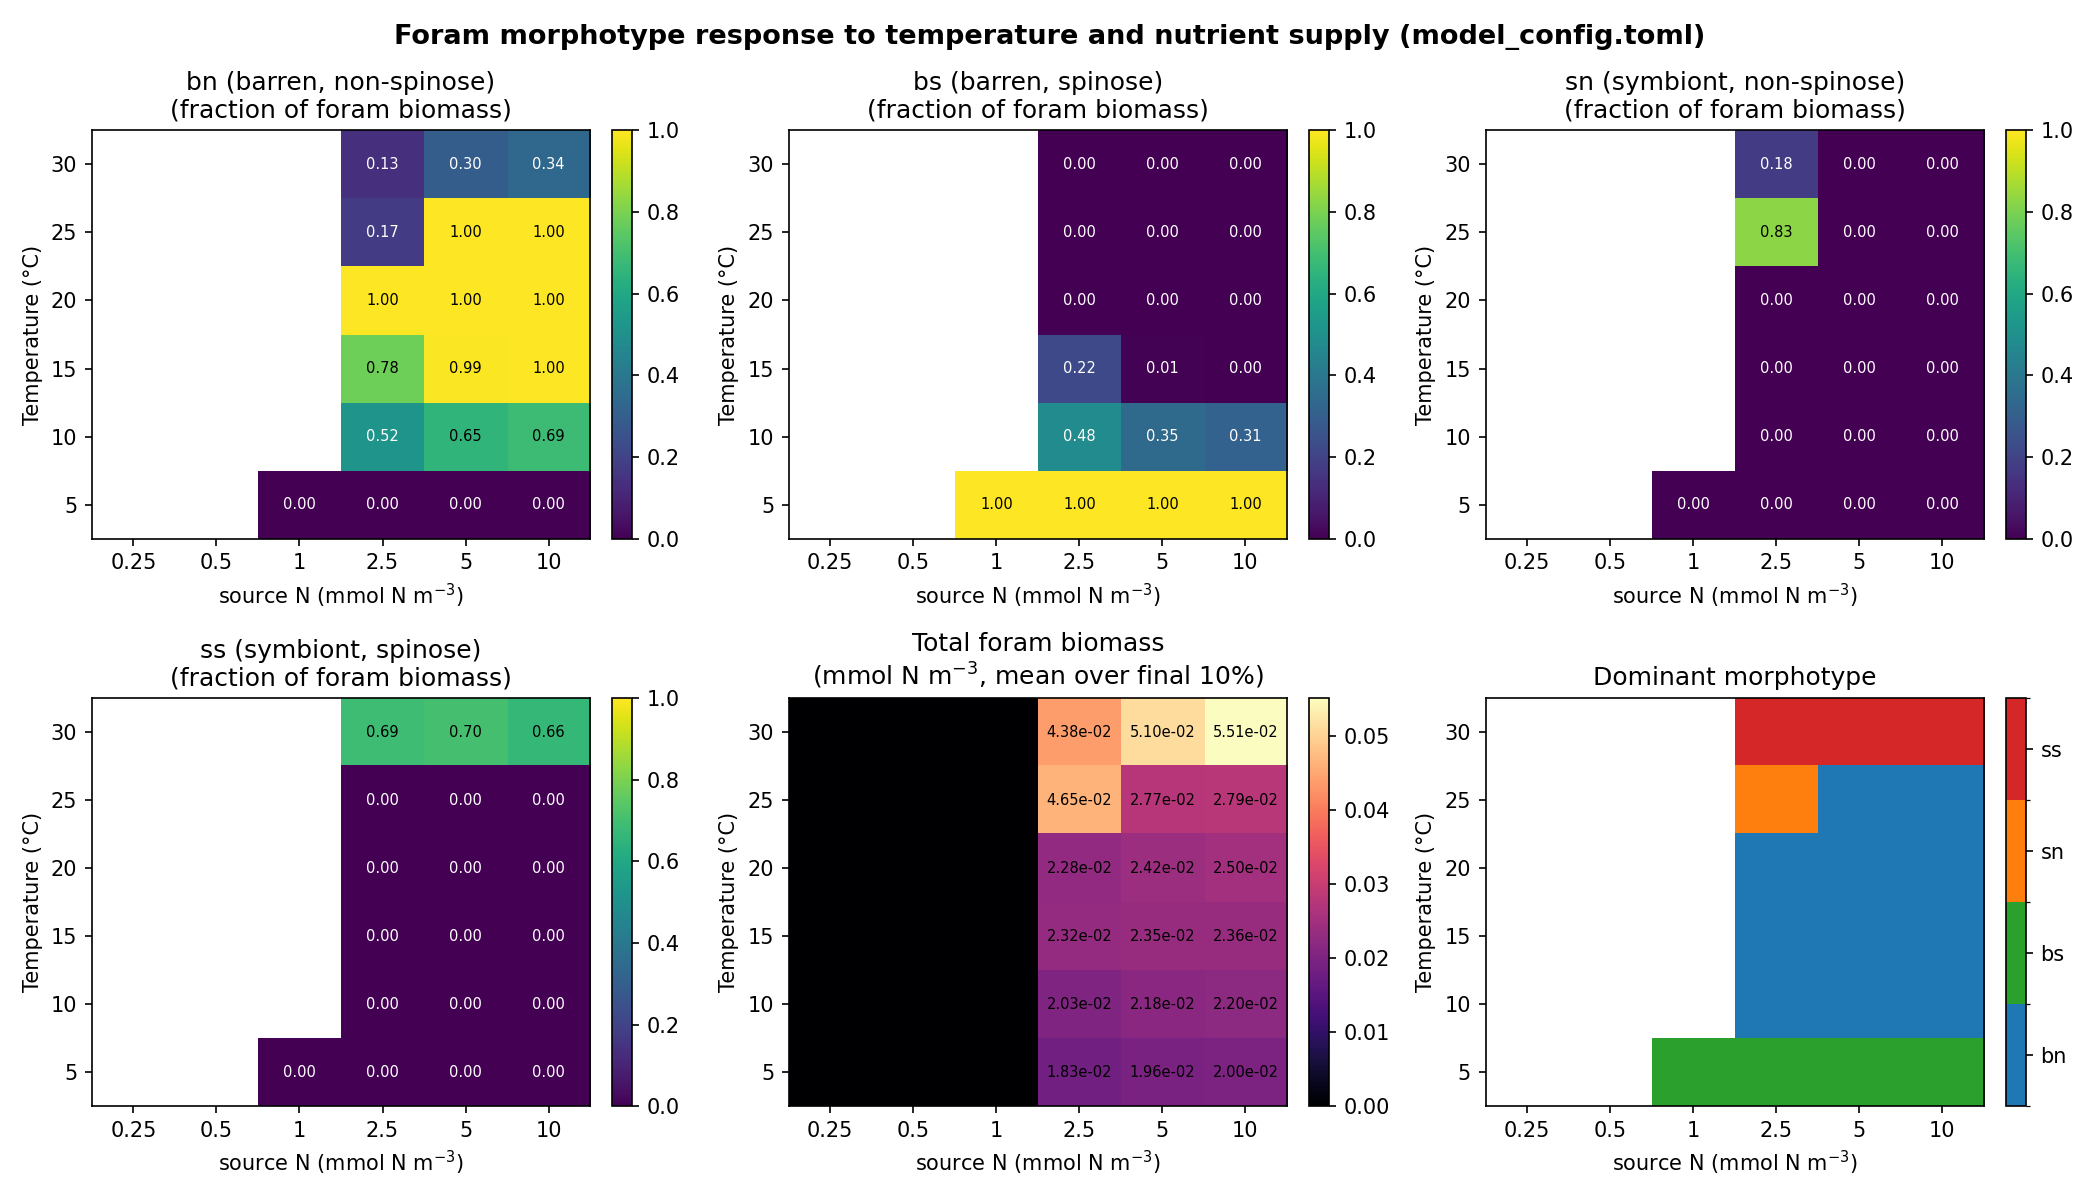
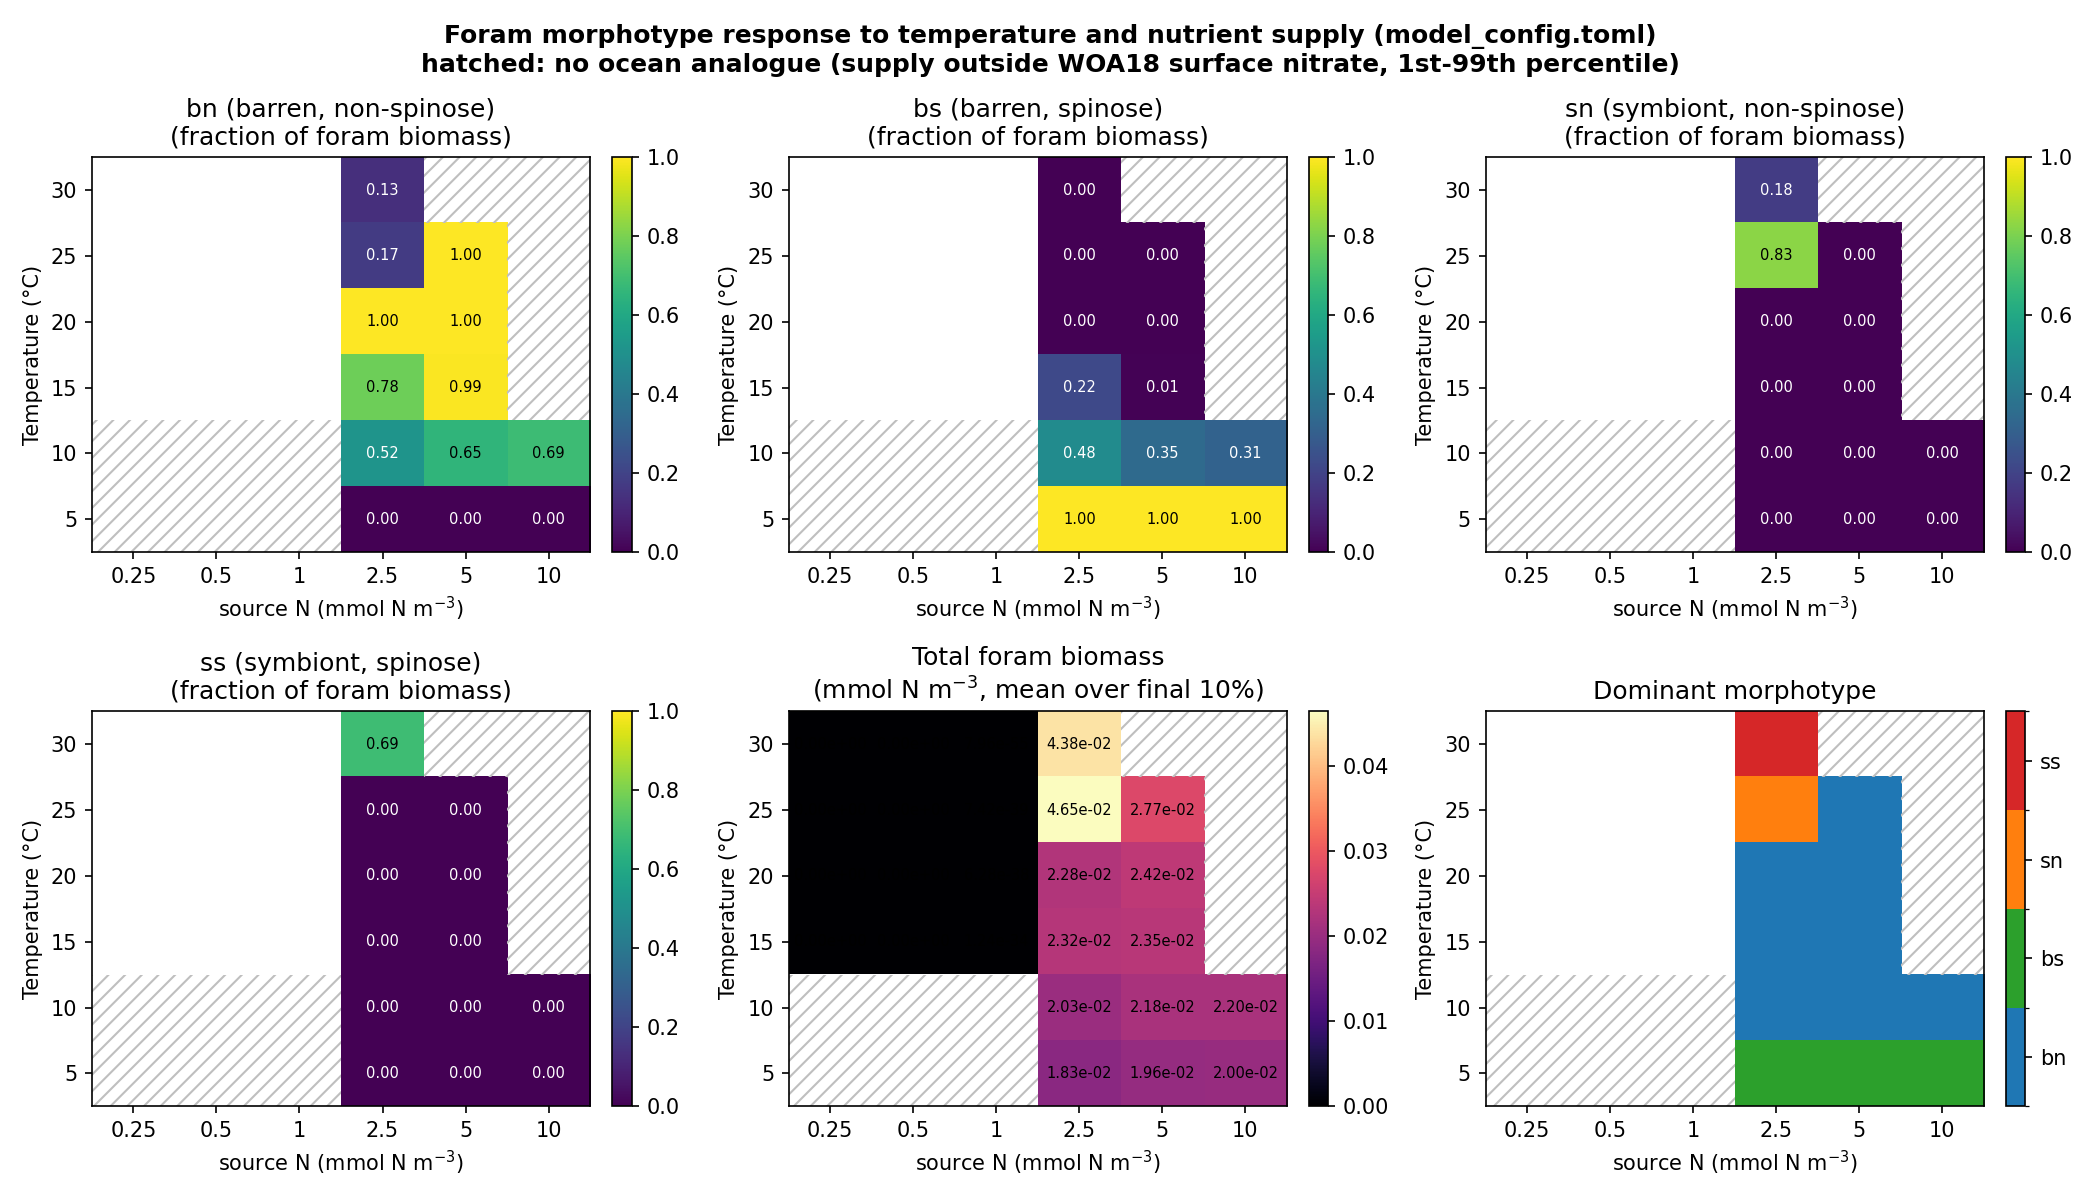
skip T x N sweep cells that have no ocean analogue
A cell runs only if its supply nitrate lies within the 1st-99th
percentile of WOA18 annual surface nitrate within 2.5 C of its
temperature (range hard-coded in the script). This drops cold
nutrient-poor cells (5-10 C at supply <= 1) and warm nutrient-rich ones
(15-25 C at 10, 30 C at >= 5). Skipped cells are hatched and have no
dominant type. Both niche maps regenerated.

diff --git a/run_foram_TN_sweep.py b/run_foram_TN_sweep.py
@@ -21,6 +21,18 @@ MORPHO_COLORS = {'bn': '#1f77b4', 'bs': '#2ca02c', 'sn': '#ff7f0e', 'ss': '#d627
 # total foram biomass below 1% of init_B counts as extinct: fractions there are solver noise
 EXTINCT = 1e-6
 
+# Observed surface nitrate (umol/kg) by temperature: WOA18 annual 1-degree means, 1st-99th
+# percentile of cells within +-2.5 C of each SST. A supply outside this range has no ocean analogue.
+# shortcut: hard-coded from ~/WOA18 (n00, t00); recompute to sweep outside 5-30 C (np.interp clamps there).
+OCEAN_T = np.array([5.0, 10.0, 15.0, 20.0, 25.0, 30.0])
+OCEAN_NO3_LO = np.array([1.60, 1.18, 0.04, 0.03, 0.04, 0.04])
+OCEAN_NO3_HI = np.array([25.06, 16.12, 8.75, 6.16, 7.40, 3.41])
+
+
+def in_ocean(temp: float, nutrient: float) -> bool:
+    return np.interp(temp, OCEAN_T, OCEAN_NO3_LO) <= nutrient <= np.interp(temp, OCEAN_T, OCEAN_NO3_HI)
+
+
 MORPHO_LABELS = {
     'bn': 'bn (barren, non-spinose)',
     'bs': 'bs (barren, spinose)',
@@ -63,6 +75,11 @@ def main() -> None:
 
     for i, T in enumerate(temps):
         for j, N in enumerate(nutrients):
+            if not in_ocean(T, N):
+                totals[i, j] = np.nan
+                for mt in MORPHOTYPES:
+                    fracs[mt][i, j] = np.nan
+                continue
             print(f'  T={T:>4.1f} °C, source_N={N:>5.2f} ...', end=' ')
             r = run_one(T, N, config)
             totals[i, j] = r['total_F']
@@ -85,6 +102,12 @@ def plot_results(temps, nutrients, totals, fracs, save_path, config):
         ax.set_xlabel('source N (mmol N m$^{-3}$)')
         ax.set_ylabel('Temperature (°C)')
 
+    outside = np.isnan(totals)  # cells skipped as having no ocean analogue
+
+    def hatch_outside(ax):
+        for i, j in zip(*np.nonzero(outside)):
+            ax.add_patch(plt.Rectangle((j - 0.5, i - 0.5), 1, 1, fill=False, hatch='///', ec='0.75', lw=0))
+
     def imshow(ax, data, title, cmap='viridis', vmin=None, vmax=None, fmt='{:.2f}'):
         im = ax.imshow(data, origin='lower', aspect='auto',
                        cmap=cmap, vmin=vmin, vmax=vmax,
@@ -99,6 +122,7 @@ def plot_results(temps, nutrients, totals, fracs, save_path, config):
                 ax.text(j, i, fmt.format(data[i, j]),
                         ha='center', va='center', fontsize=7,
                         color='white' if cmap == 'viridis' and data[i, j] < (vmax or data.max()) * 0.6 else 'black')
+        hatch_outside(ax)
         plt.colorbar(im, ax=ax, fraction=0.046, pad=0.04)
 
     # one heatmap per morphotype (fractional)
@@ -116,18 +140,20 @@ def plot_results(temps, nutrients, totals, fracs, save_path, config):
     ax = axs[1, 2]
     stacked = np.stack([fracs[mt] for mt in MORPHOTYPES], axis=-1)
     dominant = np.argmax(np.nan_to_num(stacked), axis=-1).astype(float)
-    dominant[totals < EXTINCT] = np.nan  # no winner where forams are extinct
+    dominant[~(totals >= EXTINCT)] = np.nan  # no winner where forams are extinct or the cell was skipped
     cmap = ListedColormap([MORPHO_COLORS[mt] for mt in MORPHOTYPES])
     norm = BoundaryNorm([-0.5, 0.5, 1.5, 2.5, 3.5], cmap.N)
     im = ax.imshow(dominant, origin='lower', aspect='auto',
                    cmap=cmap, norm=norm, interpolation='nearest')
     label_axes(ax)
+    hatch_outside(ax)
     ax.set_title('Dominant morphotype')
     cbar = plt.colorbar(im, ax=ax, fraction=0.046, pad=0.04, ticks=[0, 1, 2, 3])
     cbar.ax.set_yticklabels(list(MORPHOTYPES))
 
-    fig.suptitle(f'Foram morphotype response to temperature and nutrient supply ({config})',
-                 fontsize=13, fontweight='bold')
+    fig.suptitle(f'Foram morphotype response to temperature and nutrient supply ({config})\n'
+                 'hatched: no ocean analogue (supply outside WOA18 surface nitrate, 1st-99th percentile)',
+                 fontsize=12, fontweight='bold')
     fig.savefig(save_path, dpi=150)
     print(f'saved figure: {save_path}')
 

diff --git a/tests/test_chemostat.py b/tests/test_chemostat.py
@@ -338,3 +338,10 @@ def test_diff_eqn_runs_without_nan(model):
         # ss biomass change is nontrivial when zoo prey are present
         assert dydt[1 + ss_idx[0]] != 0.0
 
+
+def test_sweep_skips_cells_without_ocean_analogue():
+    """The T x N sweep keeps only supply levels inside the observed surface-nitrate range at that temperature."""
+    from run_foram_TN_sweep import in_ocean
+    assert not in_ocean(30.0, 10.0)  # warm water this nutrient-rich does not exist
+    assert not in_ocean(5.0, 0.25)   # nor cold water this nutrient-poor
+    assert in_ocean(30.0, 0.5) and in_ocean(5.0, 10.0)
